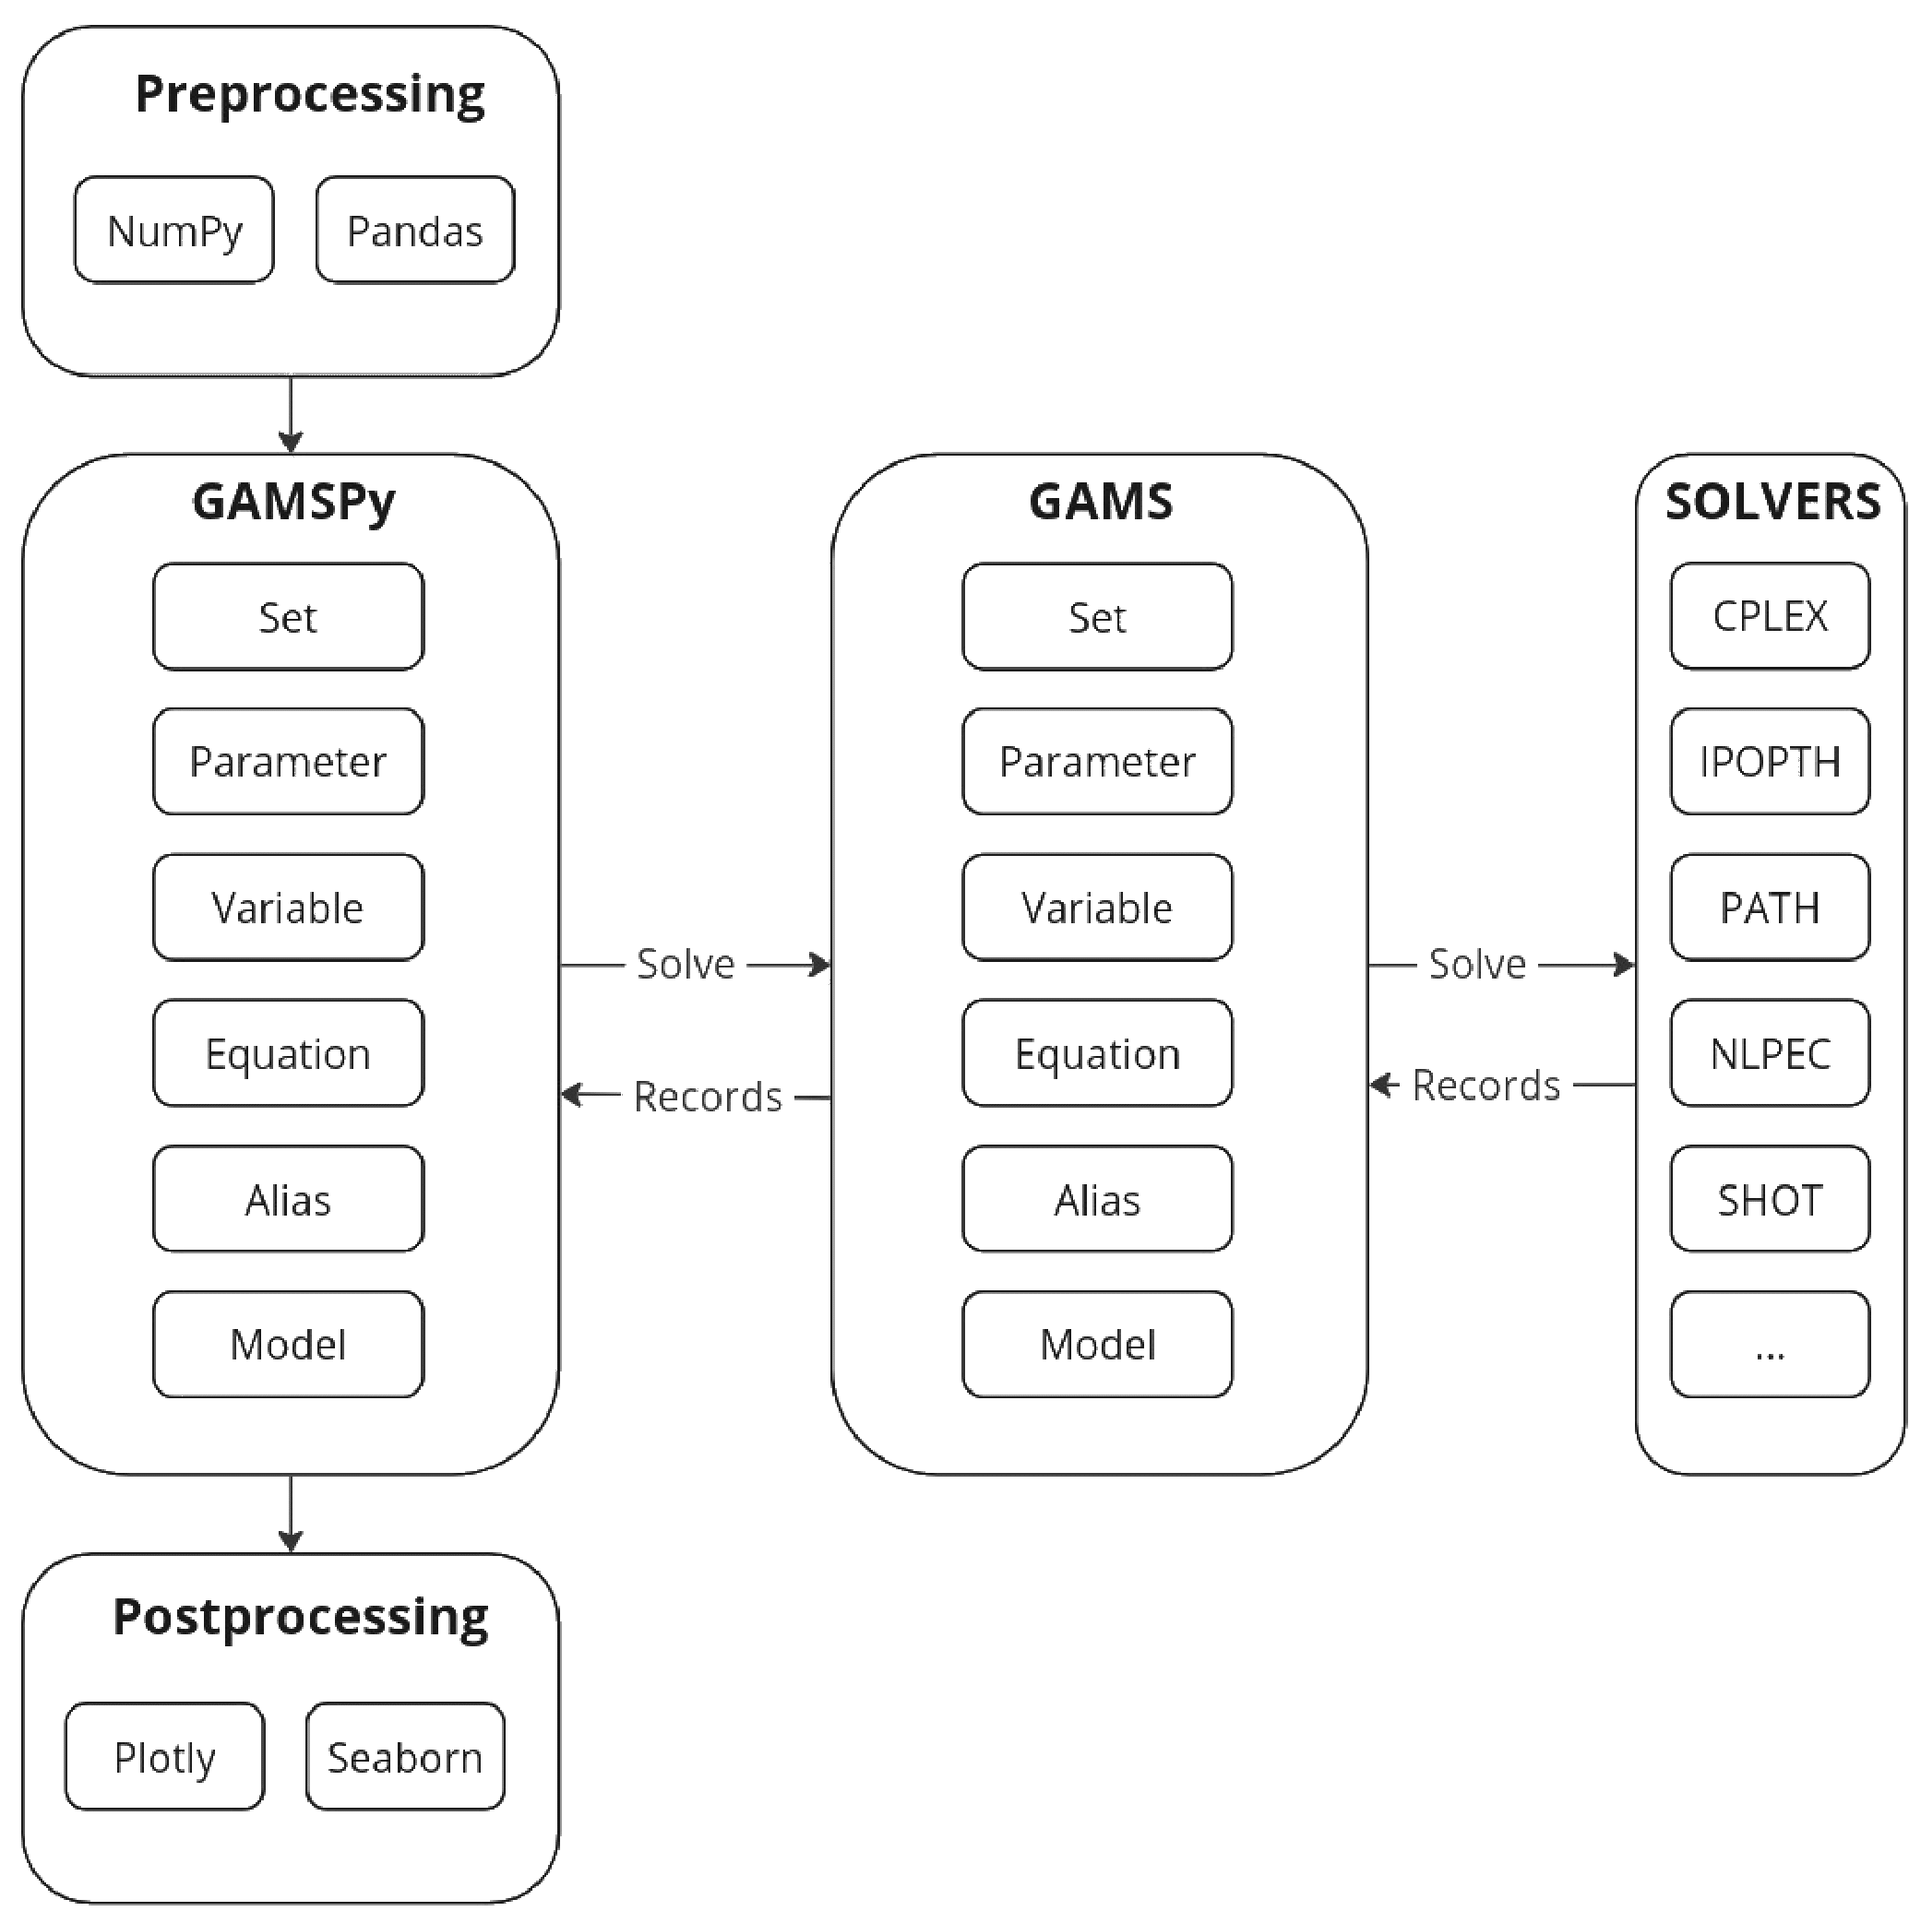
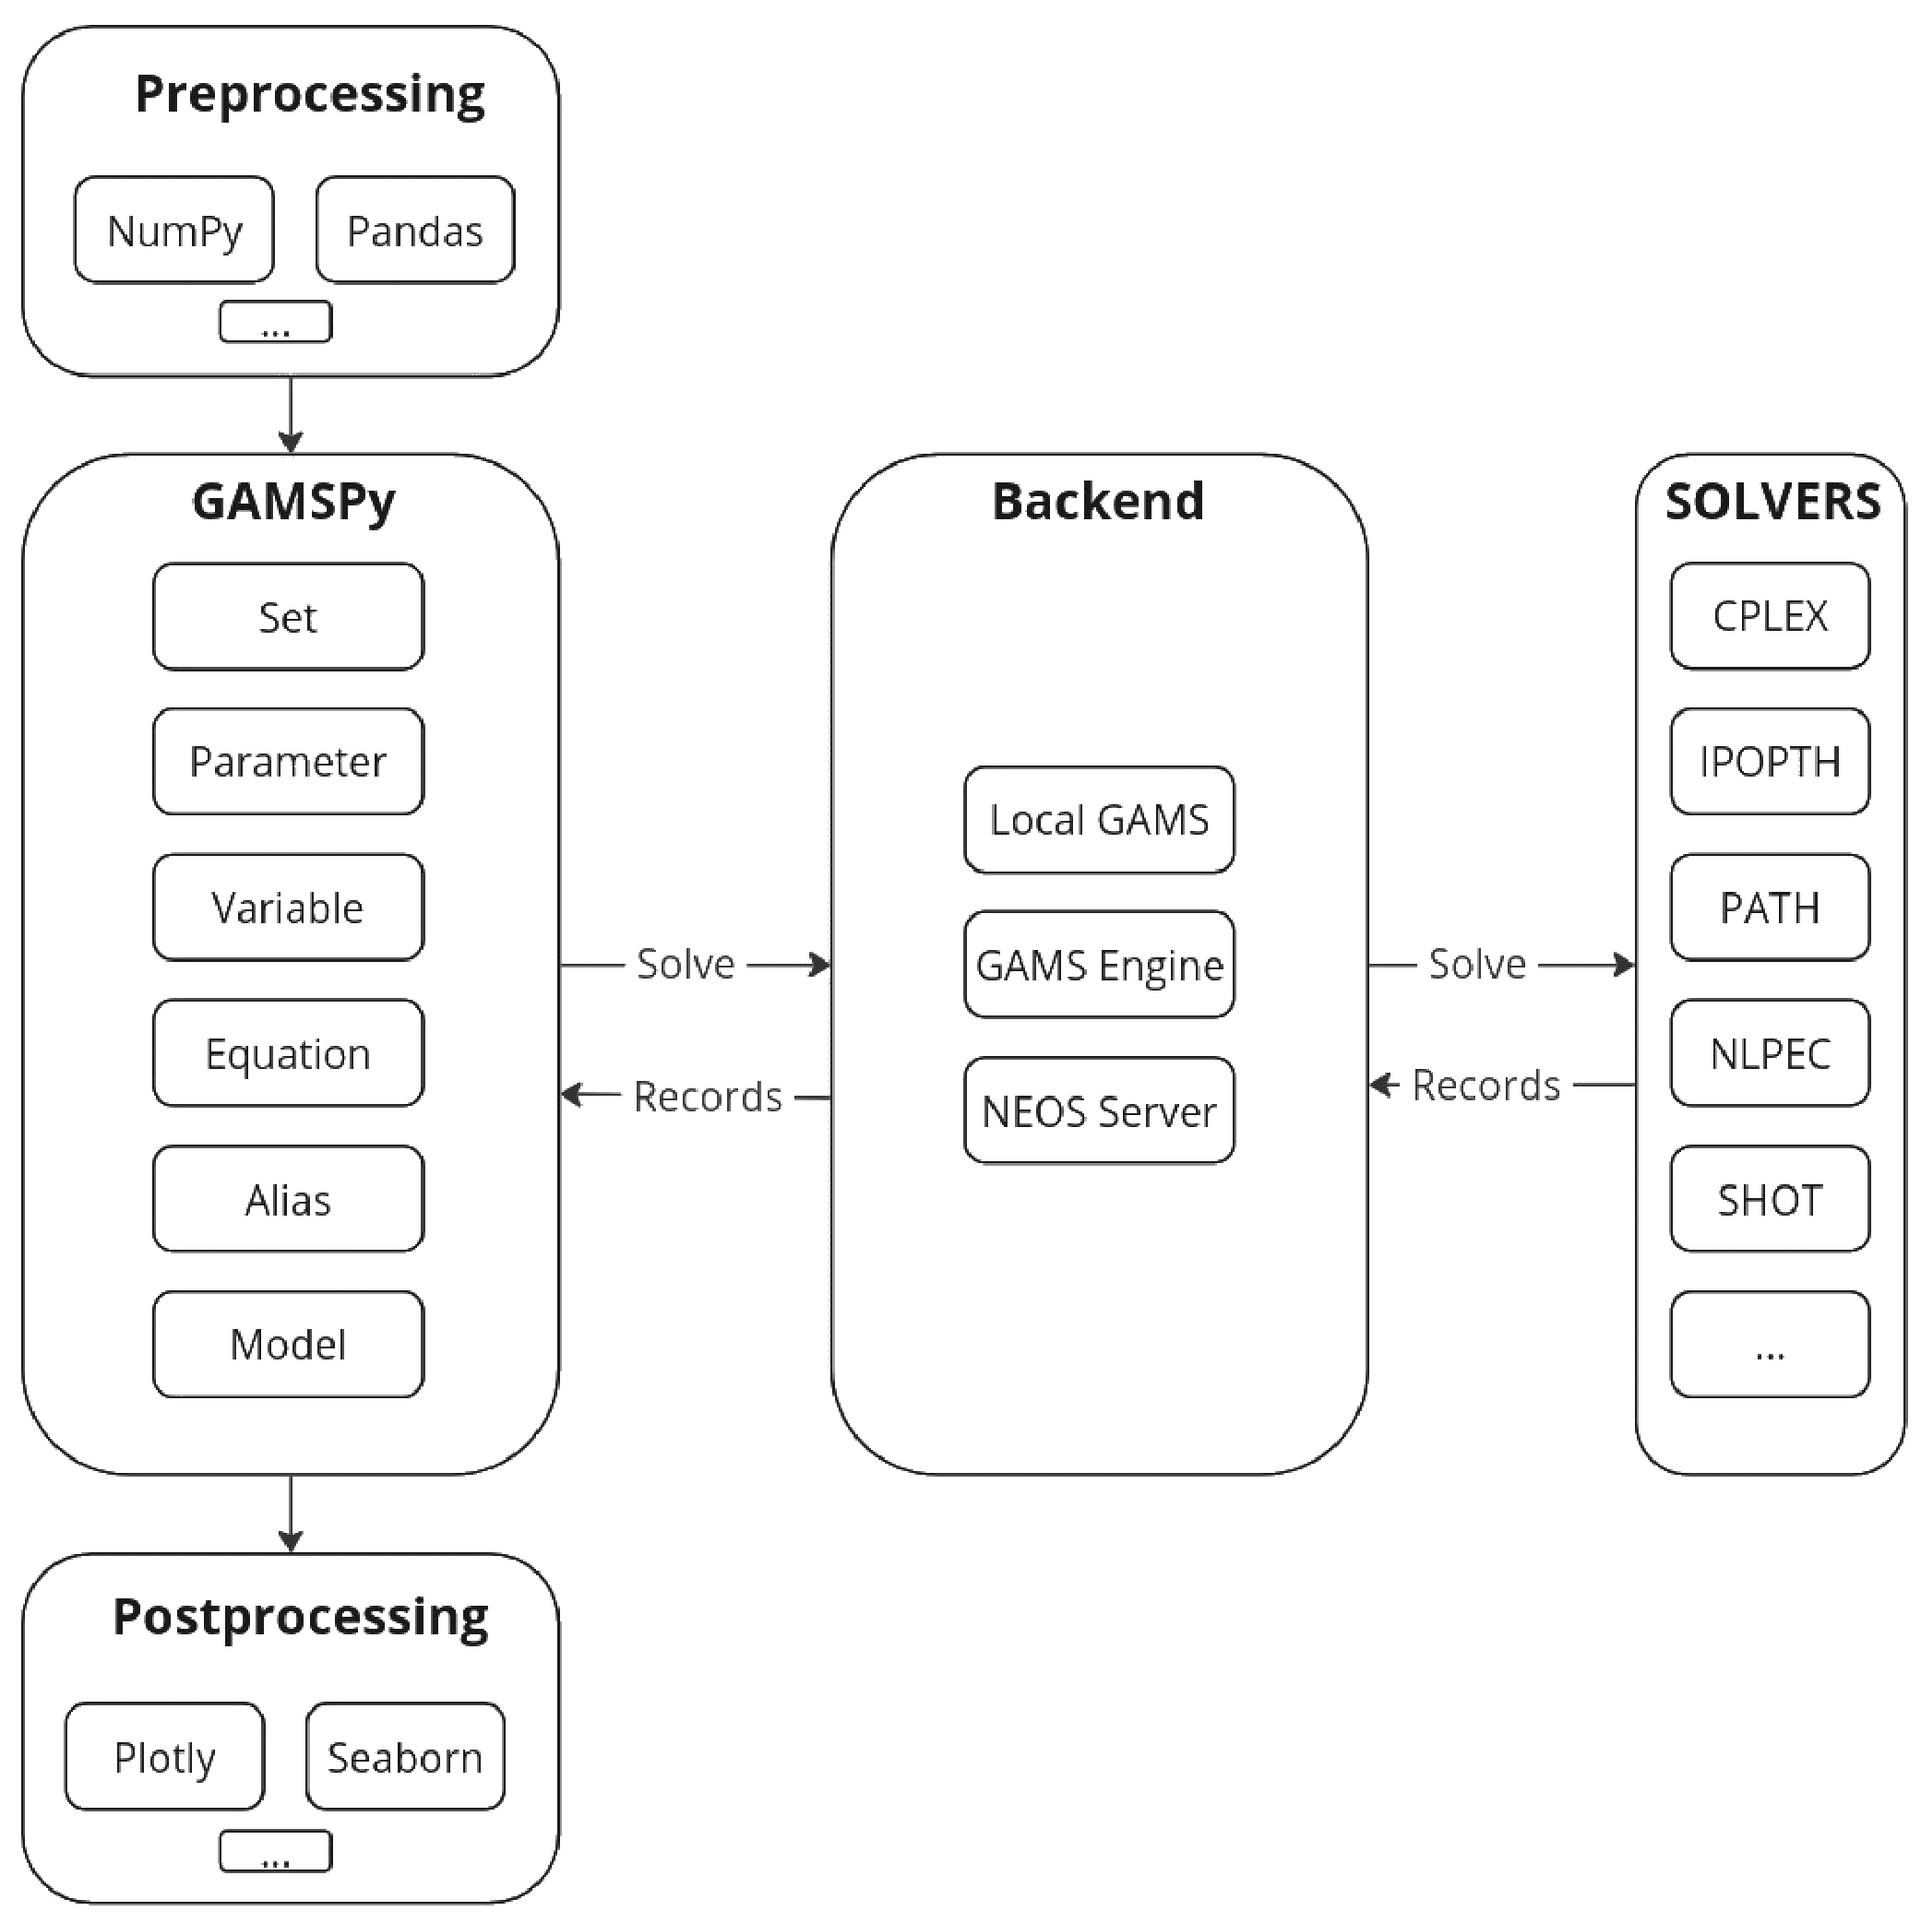
Docs whatisgamspy

diff --git a/docs/user/whatisgamspy.rst b/docs/user/whatisgamspy.rst
@@ -62,3 +62,23 @@ Meanwhile GAMSPy implementation employs set-based operations. This results in:
 - Concise and easier to read definitions.
 - GAMSPy definitions closely resembles mathematical notation that you in papers (making it easier, typically, to correctly code mathematical constructs).
 - Great performance since the actual operation is performed by GAMS using highly optimized low level code that has been improved in the last 40 years. 
+
+Which backends GAMSPy support?
+==============================
+
+GAMSPy currently supports three backends: your local gams installation, `GAMS Engine <https://www.gams.com/sales/engine_facts/>`_ and `NEOS Server <https://neos-server.org/neos/>`_. 
+The default backend is the local gams installation that comes with GAMSPy. With GAMS Engine backend, you can run hundreds of jobs in cloud on parallel to speed up your pipeline. 
+One can also send their jobs to NEOS Server which is a free service for solving numerical optimization problems.  
+
+GAMSPy is also integrated with `GAMS MIRO <https://www.gams.com/sales/miro_facts/>`_ which allows you to create fully interactive applications. Extensive visualization options of 
+GAMS MIRO support you to make decisions based on optimization. 
+
+.. image:: ../_static/miro.png
+  :alt: GAMS MIRO
+
+Interoperability of GAMSPy
+==========================
+
+A mathematical optimization model written with GAMSPy can be converted to GAMS or Latex format. GAMSPy to GAMS conversion might be useful to do fast prototyping in GAMSPy and 
+converting the model to GAMS to use certain features of GAMS (e.g. EMP models) that are missing in GAMSPy. GAMSPy to Latex conversion can be convenient to put your equations 
+into an academic paper or to verify the equations you have written matches with what you think mathematically. 
